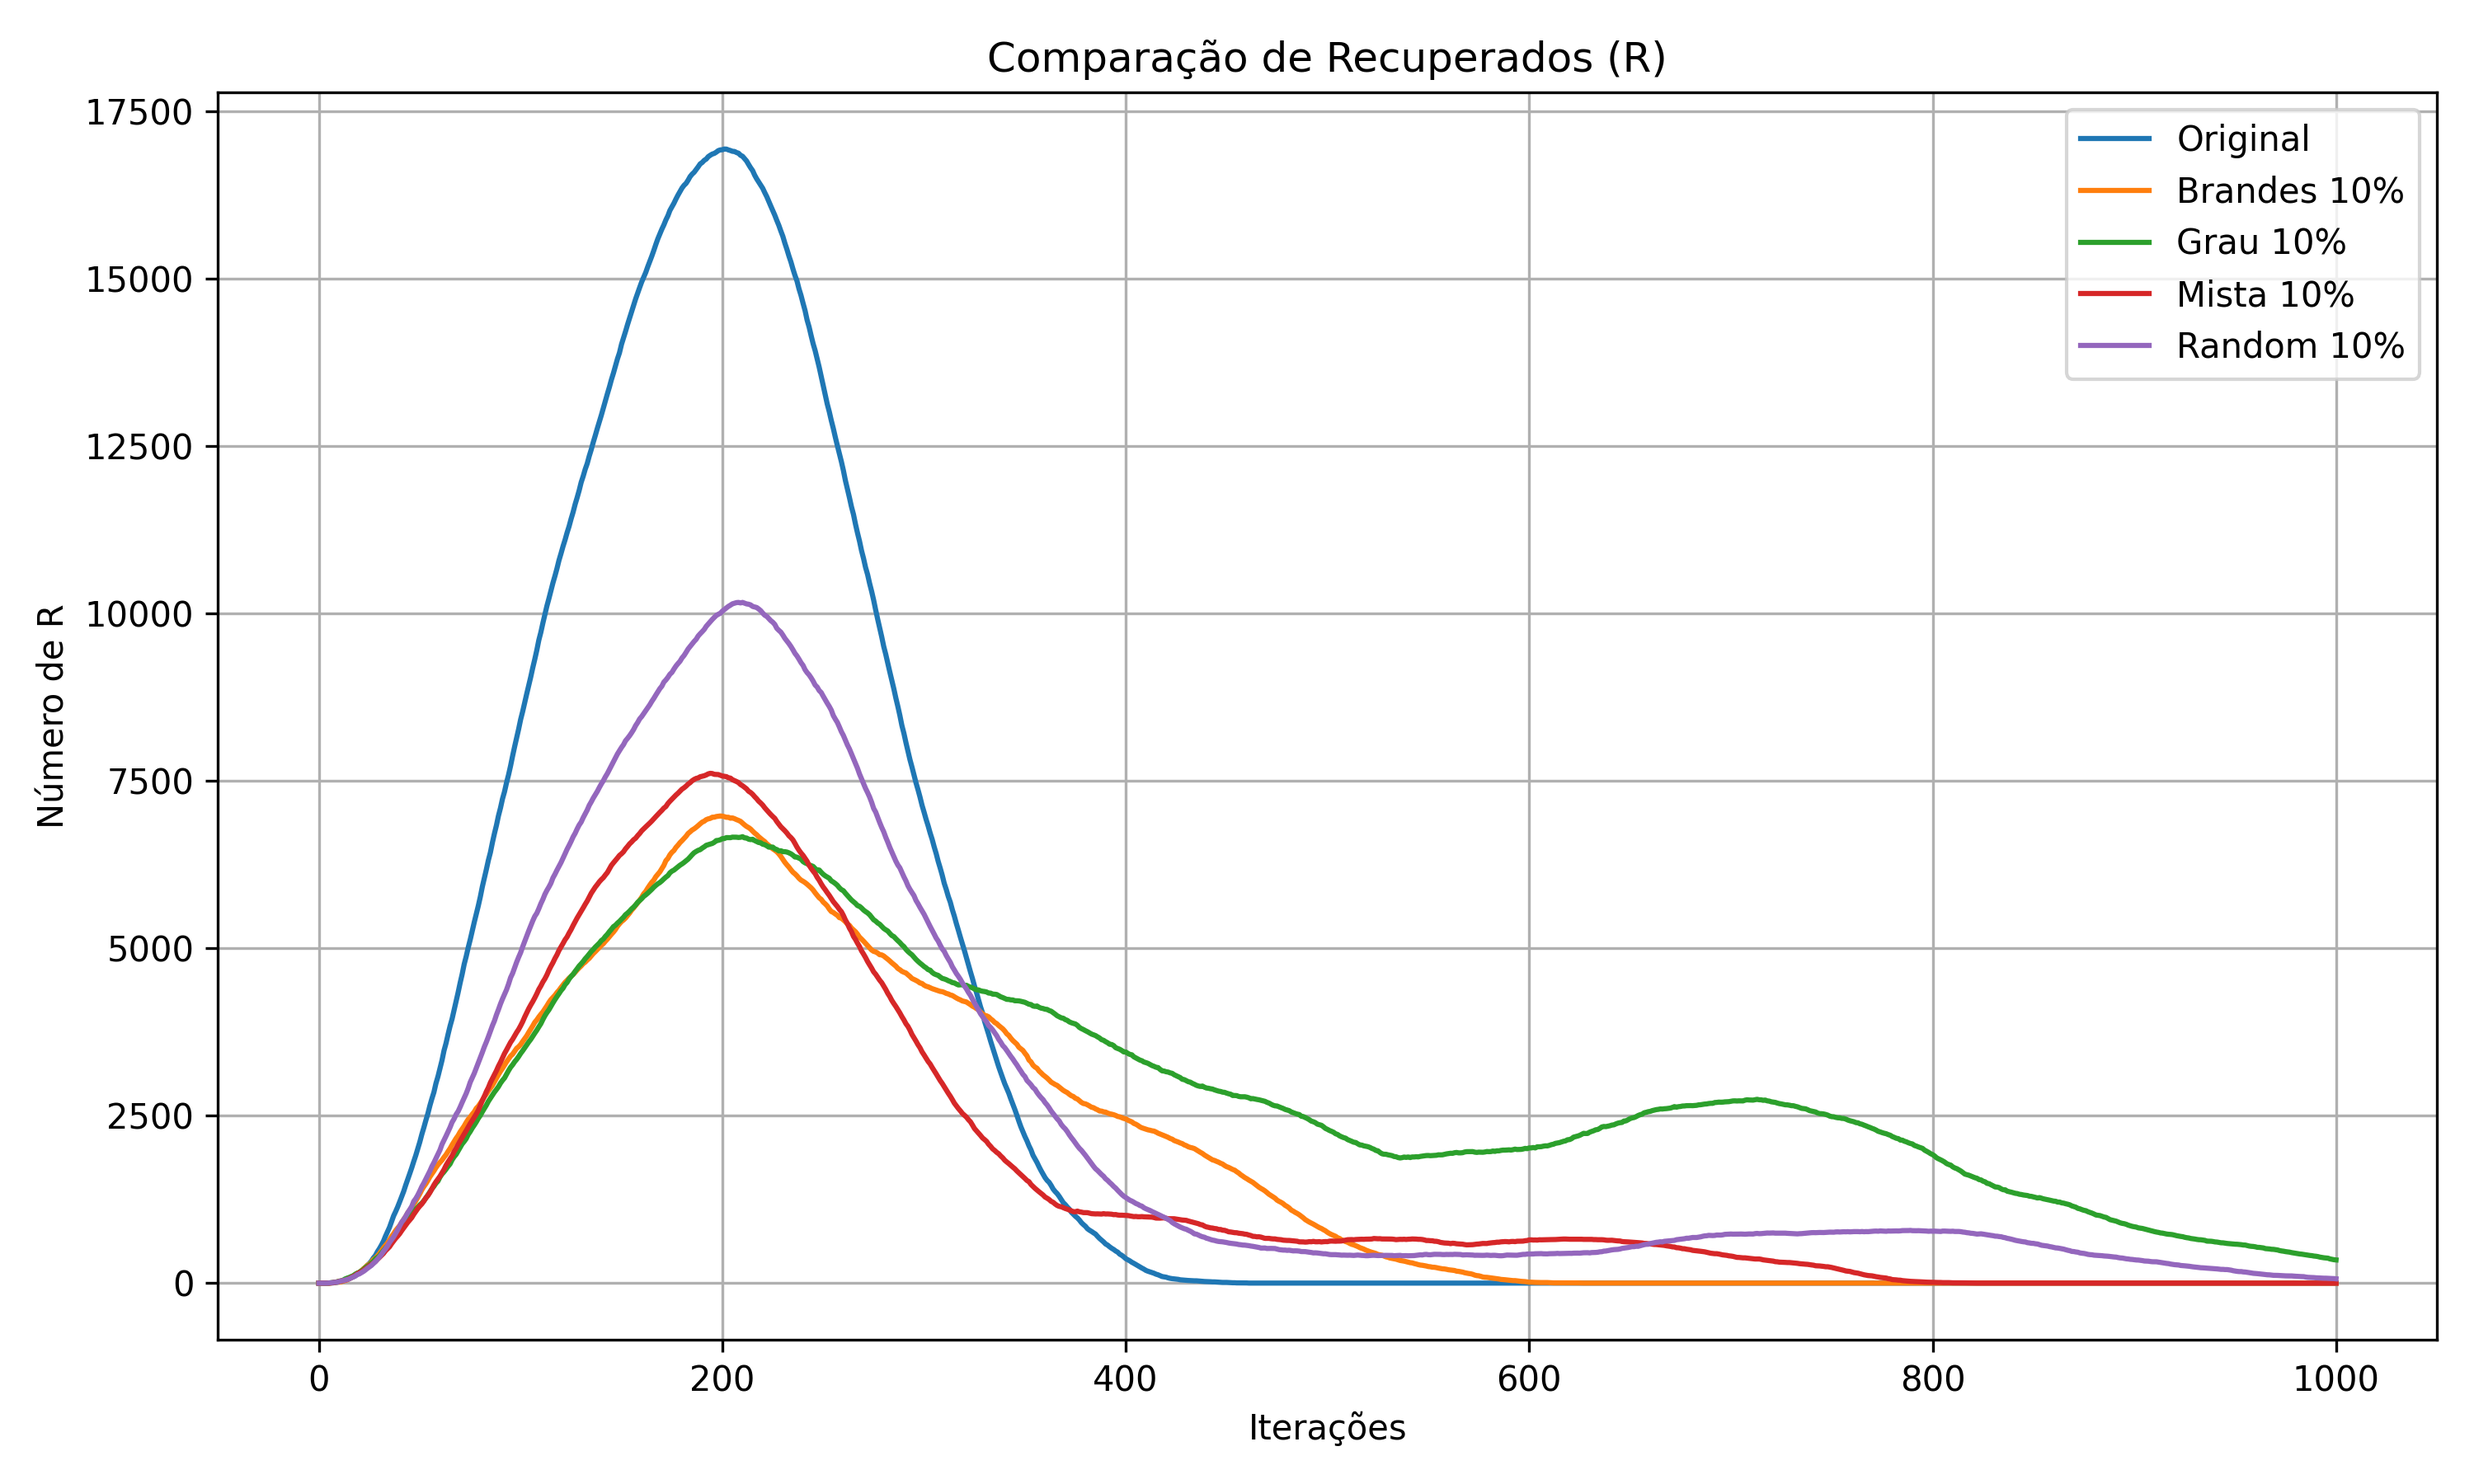
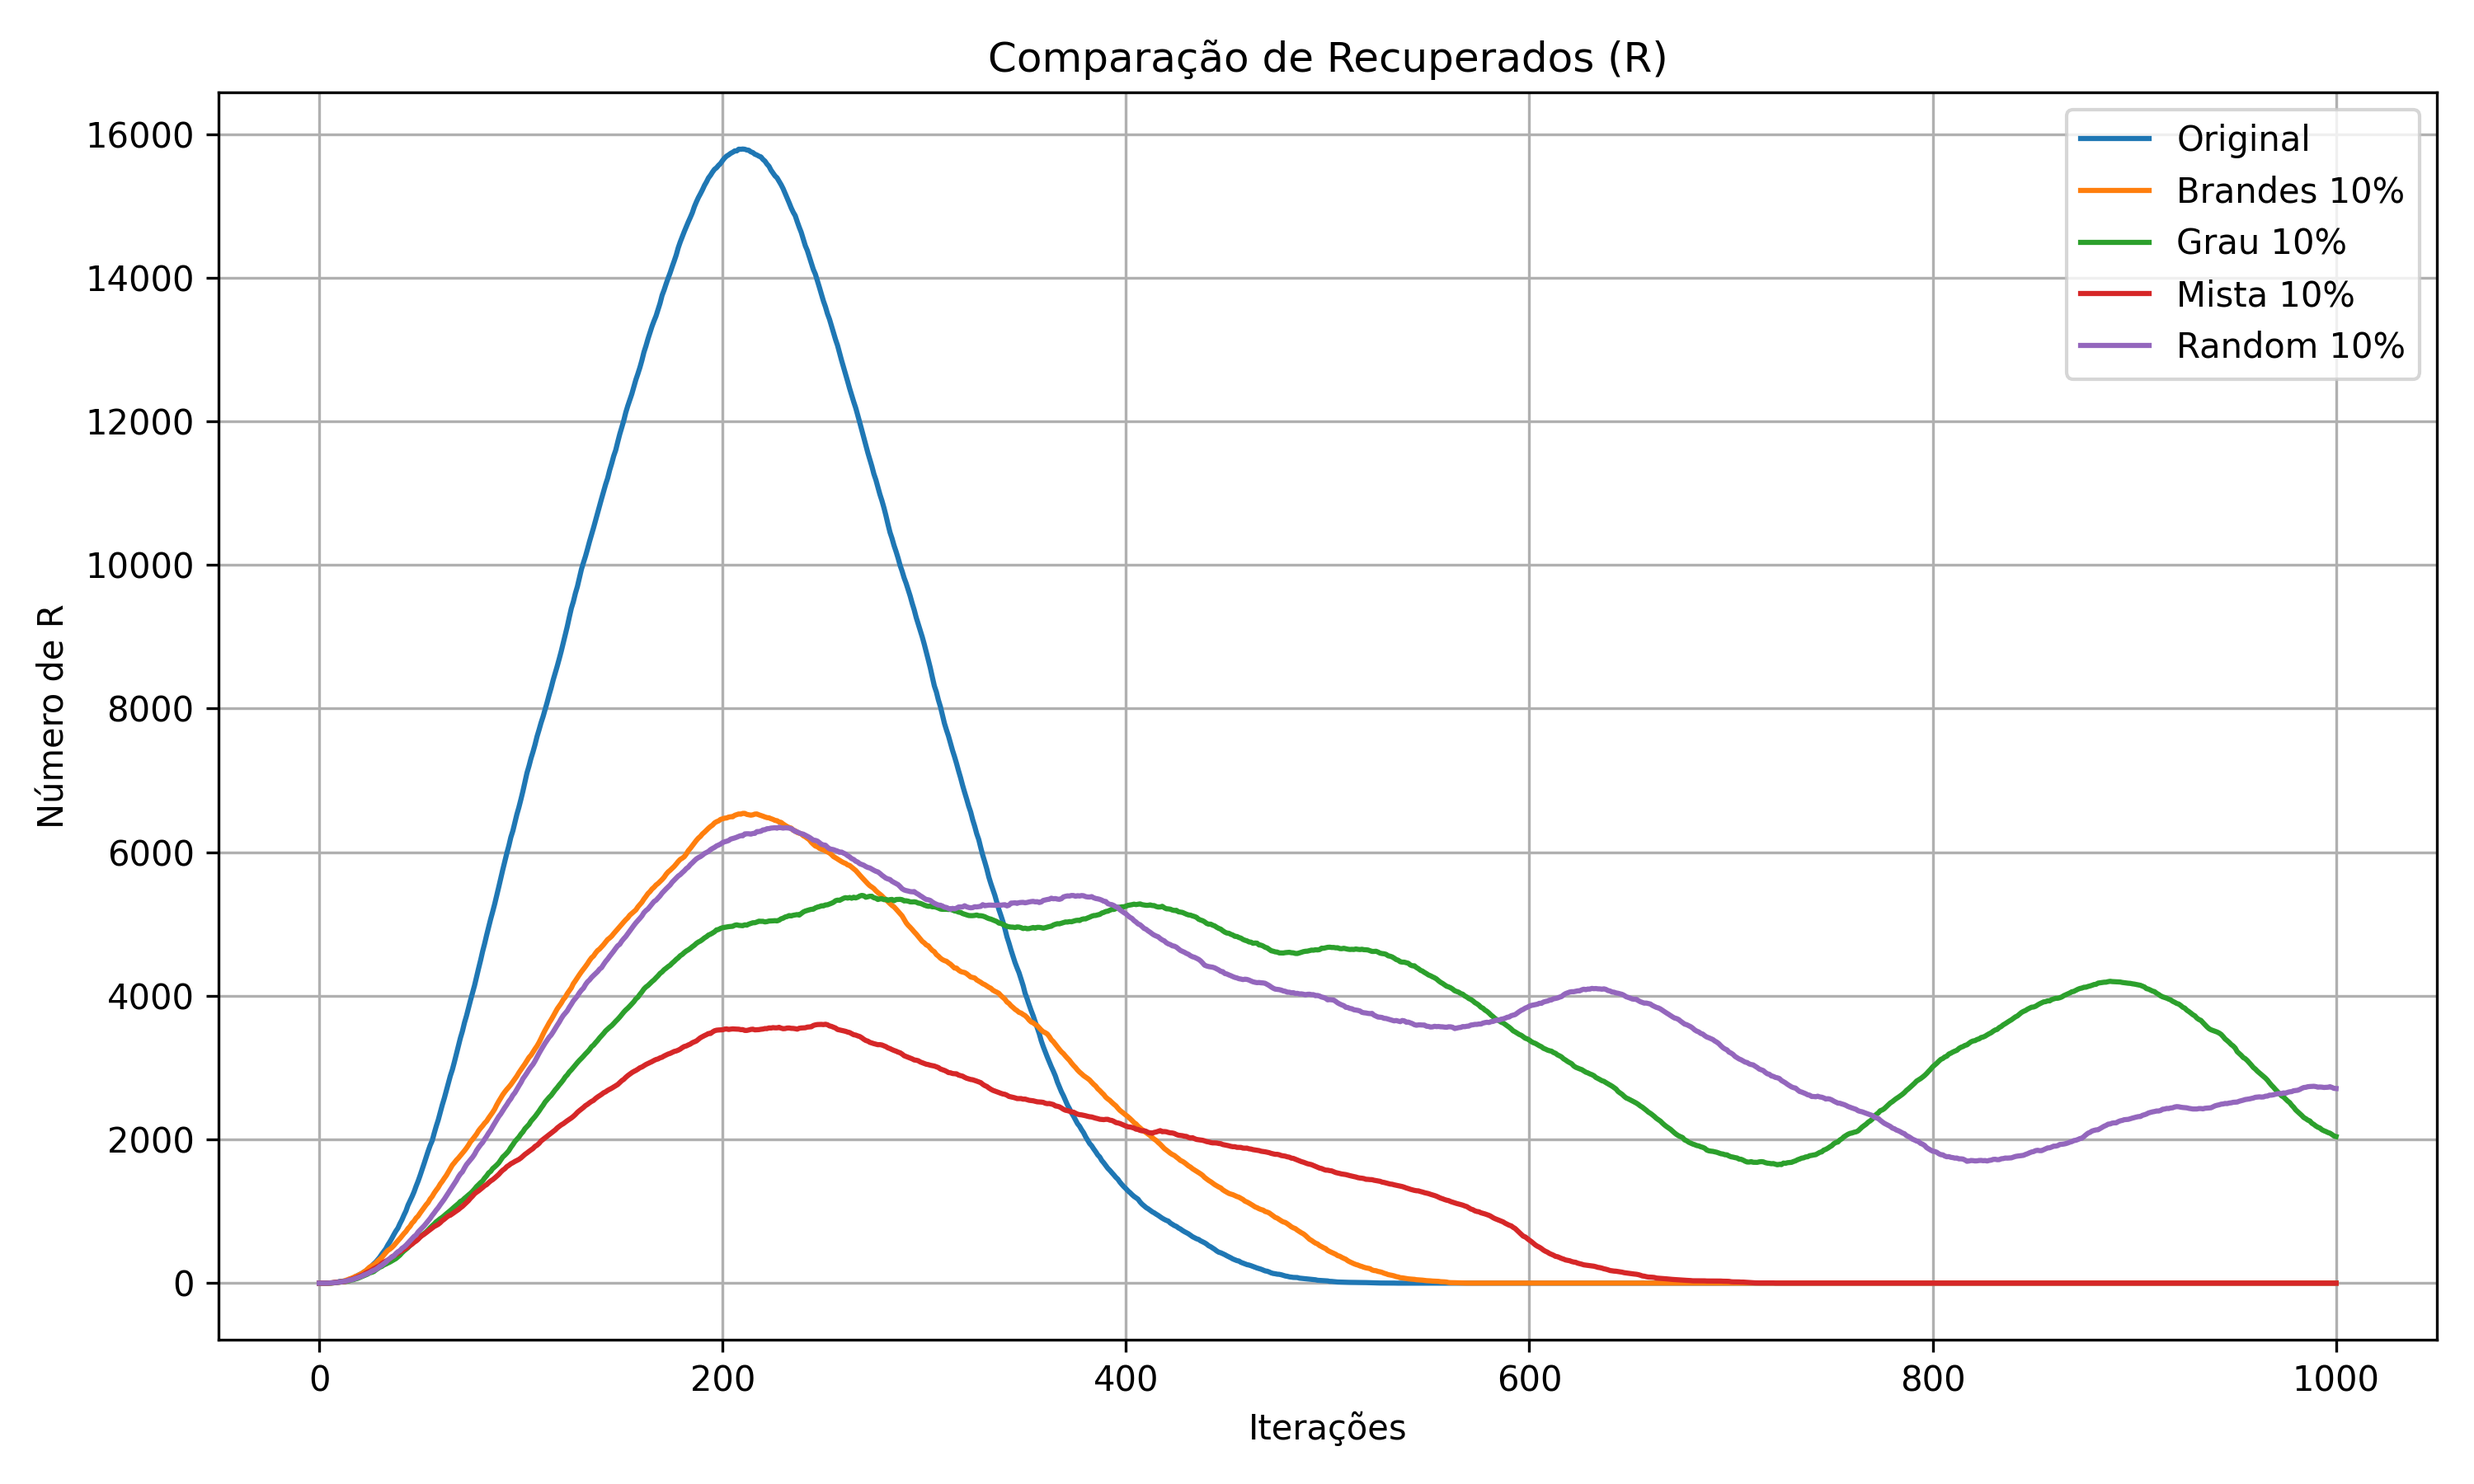
✨ Running new simulation

diff --git a/main.py b/main.py
@@ -62,7 +62,7 @@ def main():
    with live_timer("netx_to_graph_lib"):
       G = netx_to_graph_lib(G_nx)
    print()
-
+   
    # Estatísticas de peso
    weights = [attrs['weight'] for _, _, attrs in G.edges()]
    weight_min, weight_max = min(weights), max(weights)
@@ -149,6 +149,8 @@ def main():
    common_nodes = list(common_nodes)
    k = max(1, int(len(common_nodes) * 0.001))
    infected = random.sample(common_nodes, k)
+   
+   print("Nós infectados: ", len(infected))
     
    for name, graph in graphs.items():
       print(f"Simulando SIR em: {name}")

diff --git a/dataset/cidade_graph.py b/dataset/cidade_graph.py
@@ -42,9 +42,9 @@ def load_natal_graph(weight_type: str = 'none') -> nx.MultiDiGraph:
     return G
 
 if __name__ == '__main__':
-    weight_type = 'speed_kph'       # Altere conforme necessário
+    weight_type = 'length'       # Altere conforme necessário
     directed = True              # True = DiGraph, False = Graph
-    G_natal = load_natal_graph(weight_type, directed)
+    G_natal = load_natal_graph(weight_type)
 
     print(f"Grafo carregado com {G_natal.number_of_nodes()} nós e {G_natal.number_of_edges()} arestas.")
 
